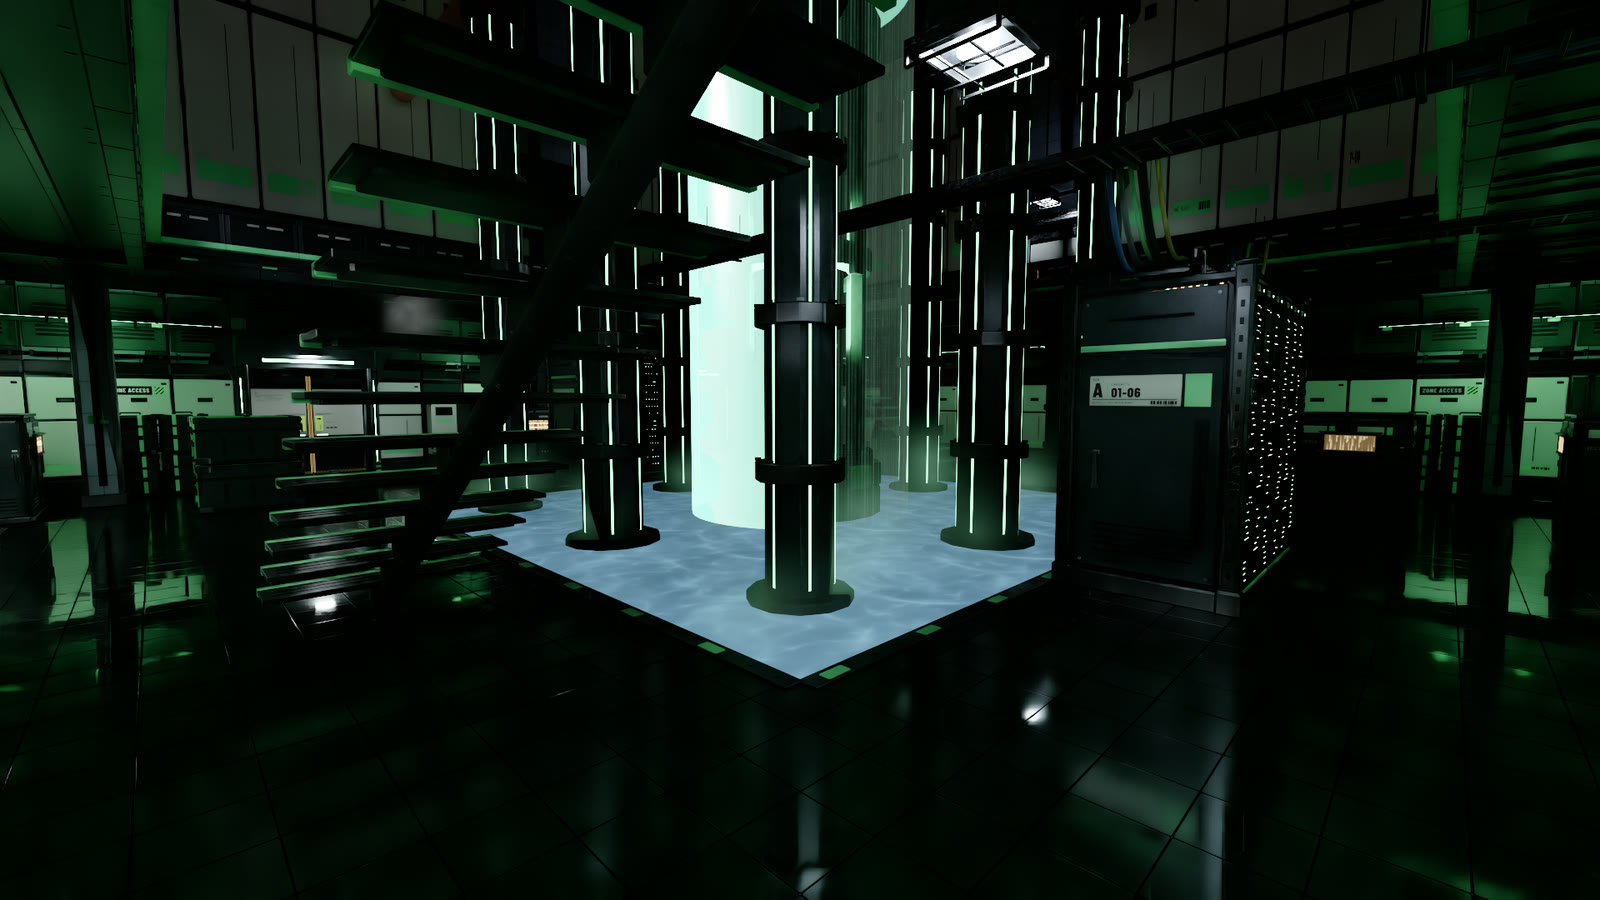
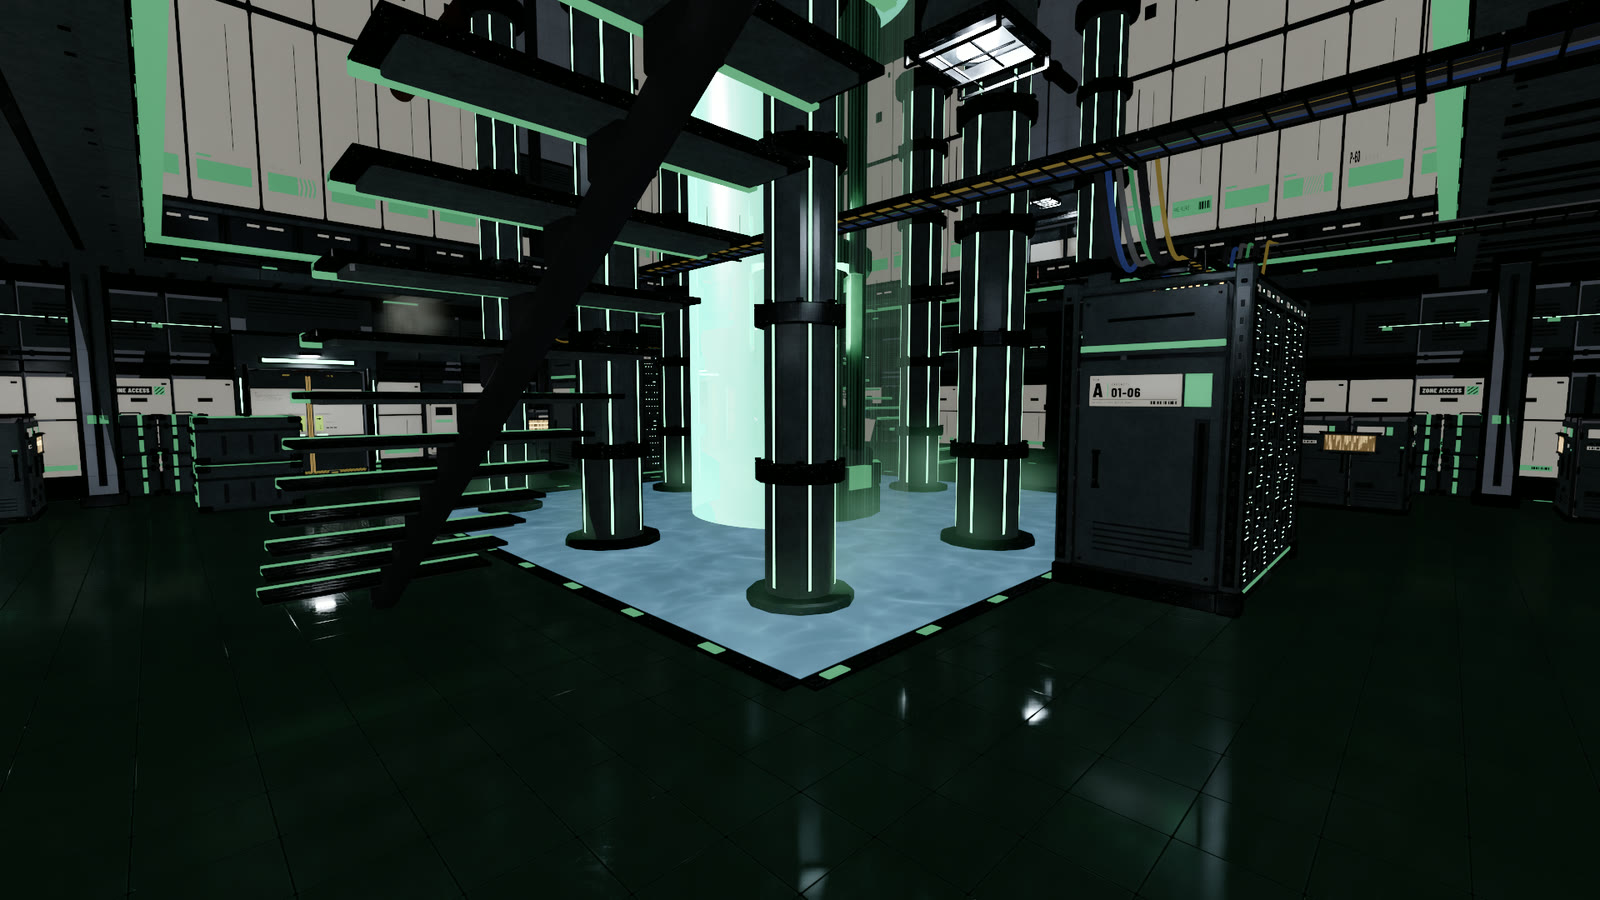
README: ray-traced column with the cascades' lights and a matching fill

diff --git a/README.md b/README.md
@@ -15,8 +15,11 @@ is lit by a few lamps and many small glowing strips, panels and pools. Left:
 the game's rasterized lighting with a flat fill light standing in for bounced
 light. Middle: the same view with the fill replaced by radiance cascades
 (screen space and world cache, DLAA at 1080p). Third column: the same view
-with the game's ray-traced lighting, Bevy Solari denoised by DLSS Ray
-Reconstruction, which replaces the lamps' direct light as well as the bounce.
+ray traced, by Bevy Solari denoised by DLSS Ray Reconstruction, which carries
+the lamps' direct light as well as the bounce. It is given the same lamps and
+glows as the cascades and a uniform fill, set by eye so the rooms come out
+about as bright: it is a second rendering to look at beside the cascades, not
+a measured reference (for that see the `cornell` example below).
 
 | Off | On | Ray traced |
 | --- | --- | --- |
